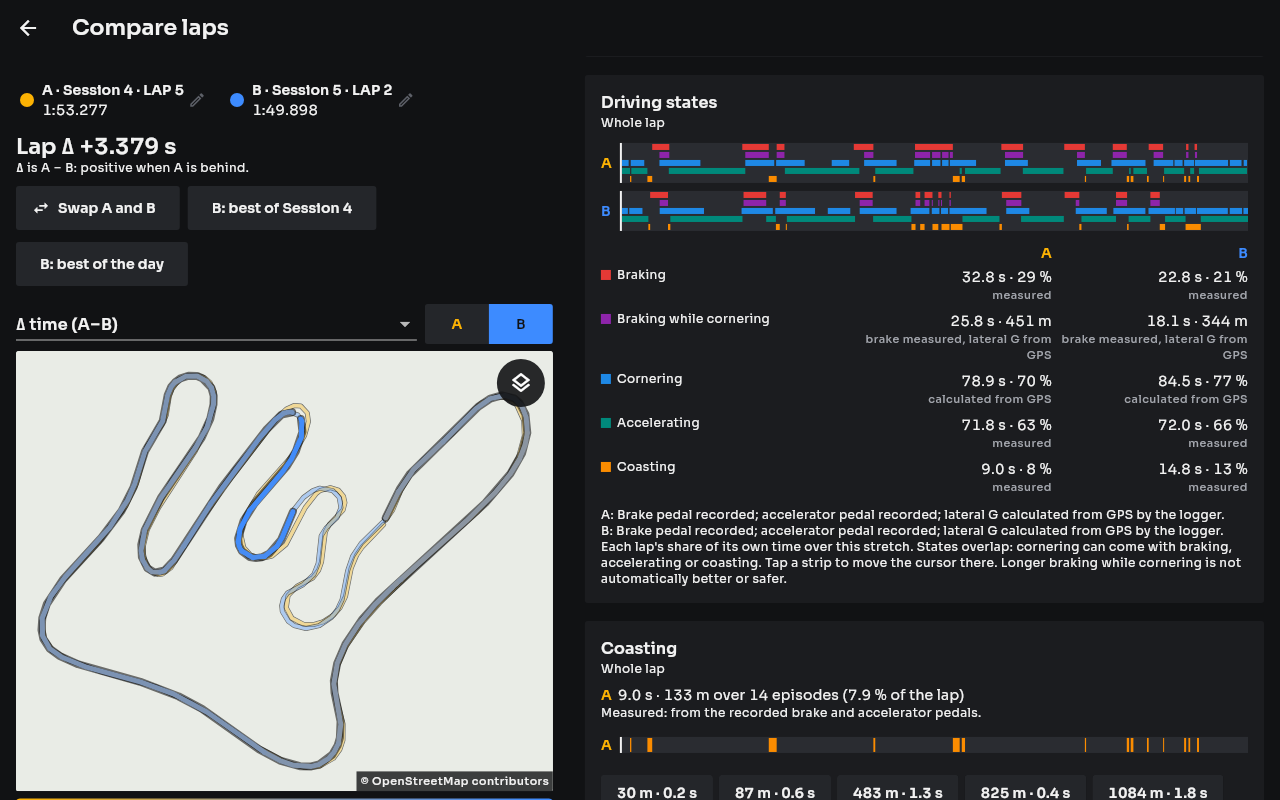
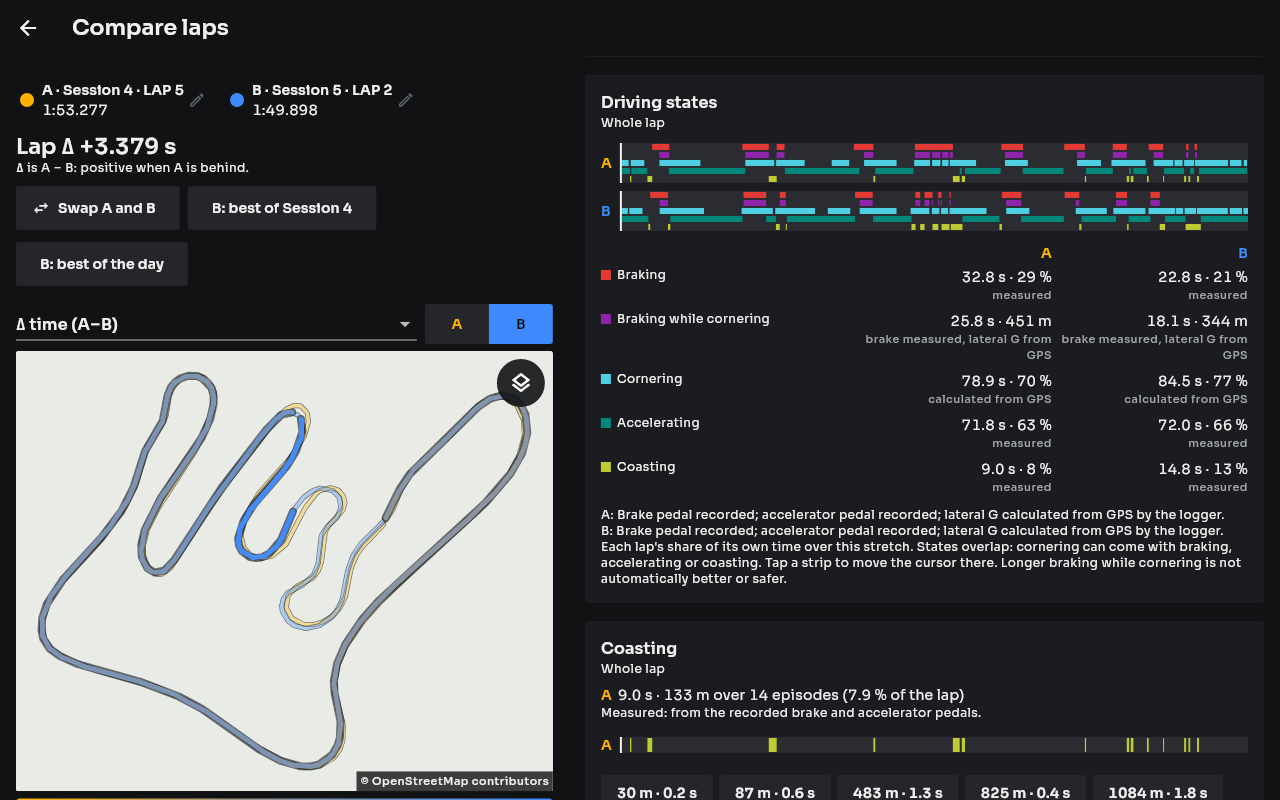
Compare: only the laps themselves use amber and blue
Δ time keeps its own amber-to-blue scale; lateral and longitudinal G use
magenta to teal, and speed, throttle and brake purple to mint. Cornering
strips are cyan and coasting lime, the Corner Analyzer's group headings
are grey, and the A/B toggle's text uses the theme's on-lap colour. Tests
pin that the other layers never take a lap's colour.

Claude-Session: https://claude.ai/code/session_015usdQtRA6xzQe9Dwv5BWvy

diff --git a/lib/day/comparison_page.dart b/lib/day/comparison_page.dart
@@ -8,6 +8,7 @@ import 'package:latlong2/latlong.dart' show LatLng;
 import 'package:telemetry_core/telemetry_core.dart';
 
 import '../format.dart';
+import '../ui/theme.dart';
 import '../units.dart';
 import 'apple_map.dart';
 import 'corner_analyzer_panel.dart';
@@ -503,7 +504,7 @@ class _ComparisonPageState extends State<ComparisonPage> {
                   selectedBackgroundColor: _layerSlot == 0
                       ? lapAColor
                       : lapBColor,
-                  selectedForegroundColor: const Color(0xFF111214),
+                  selectedForegroundColor: FetColors.of(context).onLap,
                 ),
                 segments: const [
                   ButtonSegment(value: 0, label: Text('A')),
@@ -747,15 +748,30 @@ class _ComparisonPageState extends State<ComparisonPage> {
   }
 }
 
-/// Sequential: one blue hue, dim to bright. Diverging: amber, grey at zero,
-/// blue, symmetric around zero so zero is always neutral. For Δ time (A − B)
-/// that is lap A's colour where A is ahead and lap B's where B is ahead.
-const List<Color> sequentialLayerStops = [Color(0xFF28527A), Color(0xFFE3F4FF)];
+/// Map layer scales. None of them uses lap A's amber or lap B's blue, except
+/// Δ time, whose ends are the laps themselves.
+///
+/// Sequential (speed, throttle, brake): purple, dim, to mint, bright.
+const List<Color> sequentialLayerStops = [Color(0xFF4A2A7A), Color(0xFFB8F5E0)];
+
+/// Diverging (lateral and longitudinal G): magenta, grey at zero, teal,
+/// symmetric around zero so zero is always neutral.
 const List<Color> divergingLayerStops = [
-  Color(0xFFFCB203),
+  Color(0xFFE05BD8),
   Color(0xFF8B95A1),
-  Color(0xFF3D8BFF),
+  Color(0xFF2FD6A8),
 ];
+
+/// Δ time (A − B): lap A's colour where A is ahead, grey at zero, lap B's
+/// where B is ahead.
+const List<Color> deltaLayerStops = [lapAColor, Color(0xFF8B95A1), lapBColor];
+
+/// The colour stops of [layer]'s scale.
+List<Color> mapLayerStops(ComparisonMapLayer layer) => layer.id == 'delta'
+    ? deltaLayerStops
+    : layer.diverging
+    ? divergingLayerStops
+    : sequentialLayerStops;
 
 /// The colour scale of [layer]: its low and high ends.
 (double, double) mapLayerRange(ComparisonMapLayer layer) {
@@ -770,16 +786,11 @@ const List<Color> divergingLayerStops = [
 Color mapLayerColor(ComparisonMapLayer layer, double value) {
   final (low, high) = mapLayerRange(layer);
   final t = ((value - low) / (high - low)).clamp(0.0, 1.0);
-  if (!layer.diverging) {
-    return Color.lerp(sequentialLayerStops[0], sequentialLayerStops[1], t)!;
-  }
+  final stops = mapLayerStops(layer);
+  if (!layer.diverging) return Color.lerp(stops[0], stops[1], t)!;
   return t < 0.5
-      ? Color.lerp(divergingLayerStops[0], divergingLayerStops[1], t * 2)!
-      : Color.lerp(
-          divergingLayerStops[1],
-          divergingLayerStops[2],
-          (t - 0.5) * 2,
-        )!;
+      ? Color.lerp(stops[0], stops[1], t * 2)!
+      : Color.lerp(stops[1], stops[2], (t - 0.5) * 2)!;
 }
 
 String mapLayerValueText(ComparisonMapLayer layer, double value) {
@@ -803,7 +814,7 @@ class _LayerLegend extends StatelessWidget {
     final theme = Theme.of(context);
     final (low, high) = mapLayerRange(layer);
     final unit = displayUnitOf(context, layer.channel, layer.unit);
-    final stops = layer.diverging ? divergingLayerStops : sequentialLayerStops;
+    final stops = mapLayerStops(layer);
     String end(double value, String label) =>
         '${mapLayerValueText(layer, value)}'
         '${layer.diverging && label.isNotEmpty ? ' $label' : ''}';

diff --git a/test/day/comparison_page_test.dart b/test/day/comparison_page_test.dart
@@ -634,6 +634,29 @@ void main() {
     // The single Δ line is neither lap's colour.
     expect(deltaLineColor, isNot(anyOf(lapAColorForTest, lapBColorForTest)));
   });
+
+  test('the other map layers use neither lap\'s colour', () {
+    for (final layer in const [
+      ComparisonMapLayer(
+        id: 'lateralG',
+        scale: 'diverging',
+        trace: MapLayerTrace(minimum: -1, maximum: 1),
+      ),
+      ComparisonMapLayer(
+        id: 'speed',
+        scale: 'sequential',
+        trace: MapLayerTrace(minimum: 0, maximum: 1),
+      ),
+    ]) {
+      for (final value in [-1.0, 0.0, 0.5, 1.0]) {
+        expect(
+          mapLayerColor(layer, value),
+          isNot(anyOf(lapAColorForTest, lapBColorForTest)),
+          reason: '${layer.id} at $value',
+        );
+      }
+    }
+  });
 }
 
 const lapAColorForTest = Color(0xFFFCB203);

diff --git a/lib/day/driving_panels.dart b/lib/day/driving_panels.dart
@@ -28,11 +28,12 @@ final List<ComparisonPanelBuilder> drivingComparisonPanels = [
 const List<Color> _lapColors = [lapAColor, lapBColor];
 const List<String> _lapNames = ['A', 'B'];
 
-/// Lane colours of the driving-state strips.
+/// Lane colours of the driving-state strips: none is lap A's amber or lap
+/// B's blue, since the strips are drawn for both laps.
 const Color brakingStateColor = Color(0xFFE53935);
 const Color acceleratingStateColor = Color(0xFF00897B);
-const Color corneringStateColor = Color(0xFF1E88E5);
-const Color coastingStateColor = Color(0xFFFB8C00);
+const Color corneringStateColor = Color(0xFF4DD0E1);
+const Color coastingStateColor = Color(0xFFC0CA33);
 const Color trailBrakingStateColor = Color(0xFF8E24AA);
 
 /// The pink of an inferred value's label: neither lap A's amber nor lap B's

diff --git a/lib/day/corner_analyzer_panel.dart b/lib/day/corner_analyzer_panel.dart
@@ -733,7 +733,7 @@ class AnalyzerTable extends StatelessWidget {
                 name.toUpperCase(),
                 key: ValueKey('cornerAnalyzerGroup $name'),
                 style: theme.textTheme.labelSmall?.copyWith(
-                  color: theme.colorScheme.primary,
+                  color: theme.colorScheme.onSurfaceVariant,
                   letterSpacing: 0.8,
                 ),
               ),
